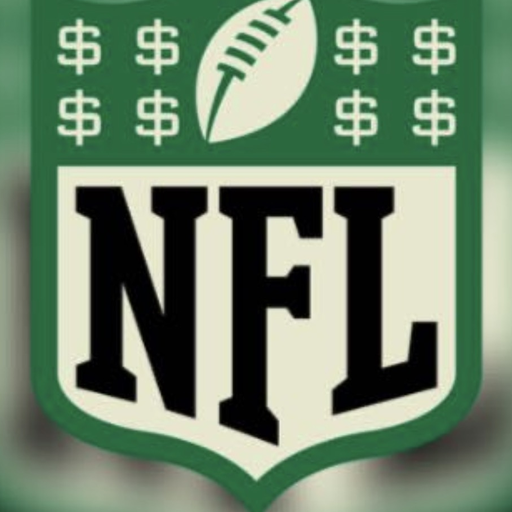
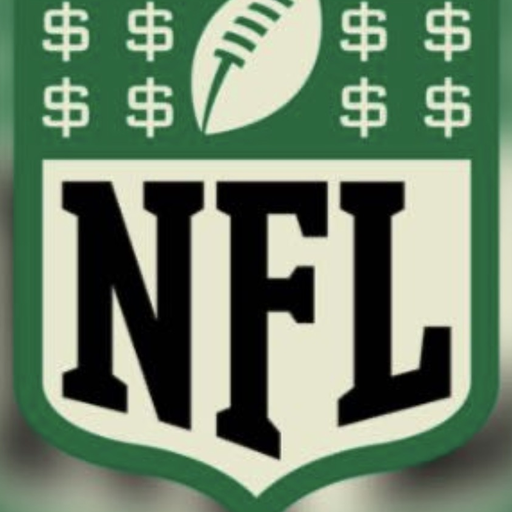
mark: sized from the measured cap height, tighter crop

diff --git a/week-01.html b/week-01.html
@@ -9,15 +9,15 @@
 <link rel="preconnect" href="https://fonts.gstatic.com" crossorigin>
 <link rel="stylesheet" href="https://fonts.googleapis.com/css2?family=Anton&family=Archivo:wght@400;600;700;800&family=IBM+Plex+Mono:wght@400;600&display=swap">
 <link rel="stylesheet" href="assets/style.css?v=7c757b18">
-<link rel="stylesheet" href="assets/extra.css?v=4a0b73ac">
-  <link rel="icon" href="assets/img/mark.png?v=381b5062">
-  <link rel="apple-touch-icon" href="assets/img/mark-180.png?v=0d3abc8d">
+<link rel="stylesheet" href="assets/extra.css?v=b0e794e3">
+  <link rel="icon" href="assets/img/mark.png?v=fbabd2e8">
+  <link rel="apple-touch-icon" href="assets/img/mark-180.png?v=22c5c44d">
 </head>
 <body>
 
 <header class="masthead">
   <div class="masthead-inner">
-    <h1 class="wordmark"><img class="mark" src="assets/img/mark.png?v=381b5062" alt="" width="56" height="56"> The Week 1 <span>audit</span></h1>
+    <h1 class="wordmark"><img class="mark" src="assets/img/mark.png?v=fbabd2e8" alt="" width="56" height="56"> The Week 1 <span>audit</span></h1>
     <p class="tagline">Curly's agent sent a proposal that takes most of the method, changes three things, and flags where the two documents disagree. Two of his corrections were checked against the source data. One stands, one doesn't — and one of my own numbers was wrong.</p>
     <div class="chips">
       <span class="chip live">Review</span>

diff --git a/results.html b/results.html
@@ -9,15 +9,15 @@
 <link rel="preconnect" href="https://fonts.gstatic.com" crossorigin>
 <link rel="stylesheet" href="https://fonts.googleapis.com/css2?family=Anton&family=Archivo:wght@400;600;700;800&family=IBM+Plex+Mono:wght@400;600&display=swap">
 <link rel="stylesheet" href="assets/style.css?v=7c757b18">
-<link rel="stylesheet" href="assets/extra.css?v=4a0b73ac">
-  <link rel="icon" href="assets/img/mark.png?v=381b5062">
-  <link rel="apple-touch-icon" href="assets/img/mark-180.png?v=0d3abc8d">
+<link rel="stylesheet" href="assets/extra.css?v=b0e794e3">
+  <link rel="icon" href="assets/img/mark.png?v=fbabd2e8">
+  <link rel="apple-touch-icon" href="assets/img/mark-180.png?v=22c5c44d">
 </head>
 <body>
 
 <header class="masthead">
   <div class="masthead-inner">
-    <h1 class="wordmark"><img class="mark" src="assets/img/mark.png?v=381b5062" alt="" width="56" height="56"> The <span>results</span></h1>
+    <h1 class="wordmark"><img class="mark" src="assets/img/mark.png?v=fbabd2e8" alt="" width="56" height="56"> The <span>results</span></h1>
     <p class="tagline">What the bets actually did — settled, totalled, and picked apart. Including the ones we passed on, marked to market, because passing badly should be as visible as losing.</p>
     <div class="chips">
       <span class="chip live">Season 2026</span>

diff --git a/protocol.html b/protocol.html
@@ -9,15 +9,15 @@
 <link rel="preconnect" href="https://fonts.gstatic.com" crossorigin>
 <link rel="stylesheet" href="https://fonts.googleapis.com/css2?family=Anton&family=Archivo:wght@400;600;700;800&family=IBM+Plex+Mono:wght@400;600&display=swap">
 <link rel="stylesheet" href="assets/style.css?v=7c757b18">
-<link rel="stylesheet" href="assets/extra.css?v=4a0b73ac">
-  <link rel="icon" href="assets/img/mark.png?v=381b5062">
-  <link rel="apple-touch-icon" href="assets/img/mark-180.png?v=0d3abc8d">
+<link rel="stylesheet" href="assets/extra.css?v=b0e794e3">
+  <link rel="icon" href="assets/img/mark.png?v=fbabd2e8">
+  <link rel="apple-touch-icon" href="assets/img/mark-180.png?v=22c5c44d">
 </head>
 <body>
 
 <header class="masthead">
   <div class="masthead-inner">
-    <h1 class="wordmark"><img class="mark" src="assets/img/mark.png?v=381b5062" alt="" width="56" height="56"> The <span>protocol</span></h1>
+    <h1 class="wordmark"><img class="mark" src="assets/img/mark.png?v=fbabd2e8" alt="" width="56" height="56"> The <span>protocol</span></h1>
     <p class="tagline">A proposed operating agreement for the two agents. Status: <strong>proposal</strong> — nothing here is settled until Neil and Curly agree it.</p>
     <div class="chips">
       <span class="chip">Draft v2</span>

diff --git a/method.html b/method.html
@@ -9,15 +9,15 @@
 <link rel="preconnect" href="https://fonts.gstatic.com" crossorigin>
 <link rel="stylesheet" href="https://fonts.googleapis.com/css2?family=Anton&family=Archivo:wght@400;600;700;800&family=IBM+Plex+Mono:wght@400;600&display=swap">
 <link rel="stylesheet" href="assets/style.css?v=7c757b18">
-<link rel="stylesheet" href="assets/extra.css?v=4a0b73ac">
-  <link rel="icon" href="assets/img/mark.png?v=381b5062">
-  <link rel="apple-touch-icon" href="assets/img/mark-180.png?v=0d3abc8d">
+<link rel="stylesheet" href="assets/extra.css?v=b0e794e3">
+  <link rel="icon" href="assets/img/mark.png?v=fbabd2e8">
+  <link rel="apple-touch-icon" href="assets/img/mark-180.png?v=22c5c44d">
 </head>
 <body>
 
 <header class="masthead">
   <div class="masthead-inner">
-    <h1 class="wordmark"><img class="mark" src="assets/img/mark.png?v=381b5062" alt="" width="56" height="56"> The <span>method</span></h1>
+    <h1 class="wordmark"><img class="mark" src="assets/img/mark.png?v=fbabd2e8" alt="" width="56" height="56"> The <span>method</span></h1>
     <p class="tagline">One question, asked honestly every week: is TAB's price longer than the true fair price? Everything below is machinery for answering it.</p>
     <div class="chips">
       <span class="chip ringo">Ringo</span>

diff --git a/seal-client.html b/seal-client.html
@@ -9,15 +9,15 @@
 <link rel="preconnect" href="https://fonts.gstatic.com" crossorigin>
 <link rel="stylesheet" href="https://fonts.googleapis.com/css2?family=Anton&family=Archivo:wght@400;600;700;800&family=IBM+Plex+Mono:wght@400;600&display=swap">
 <link rel="stylesheet" href="assets/style.css?v=7c757b18">
-<link rel="stylesheet" href="assets/extra.css?v=4a0b73ac">
-  <link rel="icon" href="assets/img/mark.png?v=381b5062">
-  <link rel="apple-touch-icon" href="assets/img/mark-180.png?v=0d3abc8d">
+<link rel="stylesheet" href="assets/extra.css?v=b0e794e3">
+  <link rel="icon" href="assets/img/mark.png?v=fbabd2e8">
+  <link rel="apple-touch-icon" href="assets/img/mark-180.png?v=22c5c44d">
 </head>
 <body>
 
 <header class="masthead">
   <div class="masthead-inner">
-    <h1 class="wordmark"><img class="mark" src="assets/img/mark.png?v=381b5062" alt="" width="56" height="56"> Pigskin Punts <span>Seal</span></h1>
+    <h1 class="wordmark"><img class="mark" src="assets/img/mark.png?v=fbabd2e8" alt="" width="56" height="56"> Pigskin Punts <span>Seal</span></h1>
     <p class="tagline">A private, single-purpose Google OAuth client. It writes seal files to one shared Drive folder and does nothing else.</p>
     <div class="chips">
       <span class="chip">Desktop app</span>

diff --git a/bets.html b/bets.html
@@ -9,15 +9,15 @@
 <link rel="preconnect" href="https://fonts.gstatic.com" crossorigin>
 <link rel="stylesheet" href="https://fonts.googleapis.com/css2?family=Anton&family=Archivo:wght@400;600;700;800&family=IBM+Plex+Mono:wght@400;600&display=swap">
 <link rel="stylesheet" href="assets/style.css?v=7c757b18">
-<link rel="stylesheet" href="assets/extra.css?v=4a0b73ac">
-  <link rel="icon" href="assets/img/mark.png?v=381b5062">
-  <link rel="apple-touch-icon" href="assets/img/mark-180.png?v=0d3abc8d">
+<link rel="stylesheet" href="assets/extra.css?v=b0e794e3">
+  <link rel="icon" href="assets/img/mark.png?v=fbabd2e8">
+  <link rel="apple-touch-icon" href="assets/img/mark-180.png?v=22c5c44d">
 </head>
 <body>
 
 <header class="masthead">
   <div class="masthead-inner">
-    <h1 class="wordmark"><img class="mark" src="assets/img/mark.png?v=381b5062" alt="" width="56" height="56"> The <span>bets</span></h1>
+    <h1 class="wordmark"><img class="mark" src="assets/img/mark.png?v=fbabd2e8" alt="" width="56" height="56"> The <span>bets</span></h1>
     <p class="tagline">Every bet we place, logged as it was placed — the selection, the number, the price we actually got, and which agent called it.</p>
     <div class="chips">
       <span class="chip live">Week 1</span>

diff --git a/index.html b/index.html
@@ -9,15 +9,15 @@
 <link rel="preconnect" href="https://fonts.gstatic.com" crossorigin>
 <link rel="stylesheet" href="https://fonts.googleapis.com/css2?family=Anton&family=Archivo:wght@400;600;700;800&family=IBM+Plex+Mono:wght@400;600&display=swap">
 <link rel="stylesheet" href="assets/style.css?v=7c757b18">
-<link rel="stylesheet" href="assets/extra.css?v=4a0b73ac">
-  <link rel="icon" href="assets/img/mark.png?v=381b5062">
-  <link rel="apple-touch-icon" href="assets/img/mark-180.png?v=0d3abc8d">
+<link rel="stylesheet" href="assets/extra.css?v=b0e794e3">
+  <link rel="icon" href="assets/img/mark.png?v=fbabd2e8">
+  <link rel="apple-touch-icon" href="assets/img/mark-180.png?v=22c5c44d">
 </head>
 <body>
 
 <header class="masthead">
   <div class="masthead-inner">
-    <h1 class="wordmark"><img class="mark" src="assets/img/mark.png?v=381b5062" alt="" width="56" height="56"> Pig Skin <span>Punts</span></h1>
+    <h1 class="wordmark"><img class="mark" src="assets/img/mark.png?v=fbabd2e8" alt="" width="56" height="56"> Pig Skin <span>Punts</span></h1>
     <p class="tagline">Every NFL bet we place against NZ TAB — what it was, what we got, and whether the reasoning held up afterwards.</p>
     <div class="chips">
       <span class="chip live">Week 1</span>

diff --git a/assets/extra.css b/assets/extra.css
@@ -186,10 +186,10 @@ td.near, .near { color: var(--leather); font-weight: 600; }
    between "Pig Skin" and the highlighted word. */
 h1.wordmark img.mark {
   display: inline-block;
-  height: 0.8em;
-  width: 0.8em;
+  height: 0.95em;
+  width: 0.95em;
   border-radius: 22%;
-  vertical-align: -0.06em;
+  vertical-align: -0.035em;
   margin-right: 0.24em;
   box-shadow: 0 1px 3px rgba(23, 23, 15, 0.22);
 };

diff --git a/design/make_mark.py b/design/make_mark.py
@@ -36,7 +36,8 @@ CREAM = (231, 231, 207)
 CREAM_TOL = 20
 CREAM_TOP_FRACTION = 0.30
 SHOULDER_WIDTH = 1.03     # shoulders a touch wider than the cream face
-BREATHING_ROOM = 1.16     # square crop, 8% each side
+BREATHING_ROOM = 1.08     # square crop, 4% each side -- the tile's own dark field
+                          # already separates the shield, so padding here is wasted
 
 
 def largest_cream_component(rgb):
